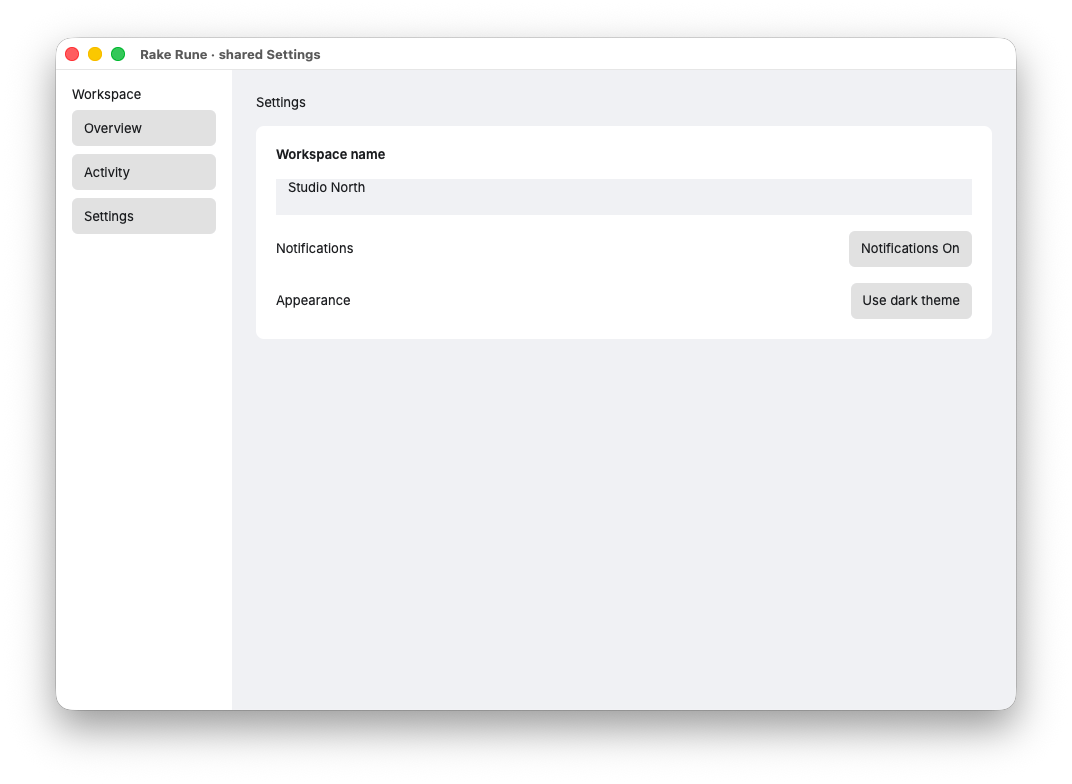
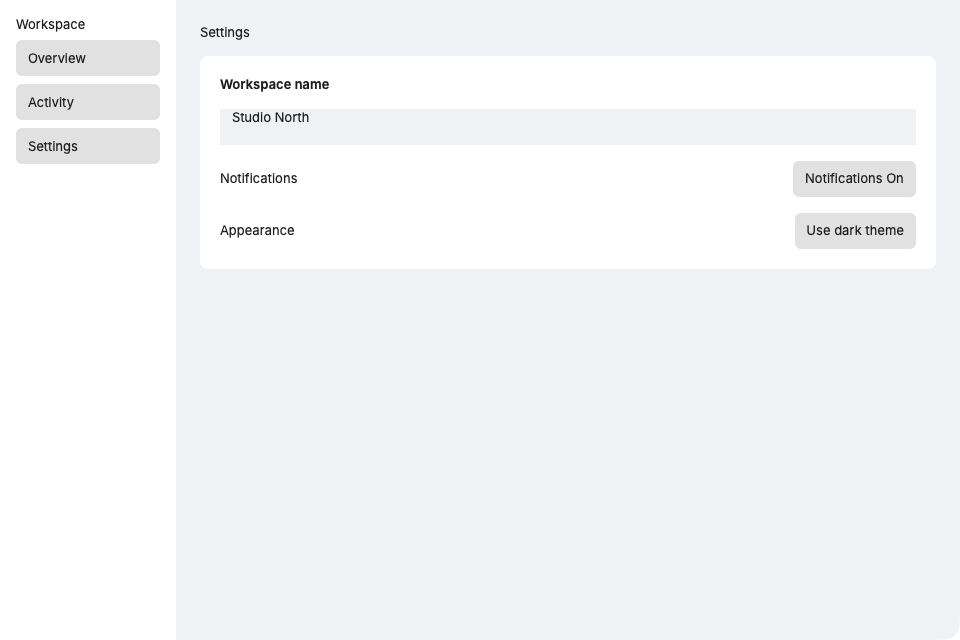
Verify shared Settings on GPUI and compare renderer captures

Changed region(s): [[0.0, 0.0312, 0.9688, 0.9688], [0.2188, 0.125, 0.375, 0.4062]]

diff --git a/experiments/rake-rune/gpui-baseline/src/backend.rs b/experiments/rake-rune/gpui-baseline/src/backend.rs
@@ -24,11 +24,51 @@ pub fn slot(children: Children) -> Element {
         .children(children)
         .into_any_element()
 }
-pub fn switch_semantics(element: Element, checked: bool) -> Element {
-    gpui::div()
-        .id("notifications-state")
-        .role(Role::Switch)
-        .aria_toggled(Toggled::from(checked))
-        .child(element)
-        .into_any_element()
+pub fn finish_button(
+    element: impl IntoElement + StatefulInteractiveElement + Styled,
+    checked: Option<bool>,
+) -> Element {
+    let palette = *rake::theme::current::<rake::theme::Semantic>();
+    let element = element
+        .border_1()
+        .border_color(palette.muted)
+        .hover(move |style| style.bg(palette.accent).border_color(palette.ring))
+        .focus_visible(move |style| style.bg(palette.accent).border_color(palette.ring));
+    button_state(element, checked).into_any_element()
+}
+
+fn button_state<E: StatefulInteractiveElement>(element: E, checked: Option<bool>) -> E {
+    match checked {
+        Some(checked) => element
+            .role(Role::Switch)
+            .aria_toggled(Toggled::from(checked)),
+        None => element,
+    }
+}
+
+#[cfg(test)]
+mod tests {
+    use super::*;
+
+    #[test]
+    fn switch_state_preserves_the_button_identity_without_a_wrapper() {
+        for checked in [None, Some(false), Some(true)] {
+            let button = gpui::div().id("notifications").role(Role::Button);
+            let id = gpui::Element::id(&button);
+            let button = button_state(button, checked);
+            let mut node = gpui::accesskit::Node::new(Role::Button);
+            gpui::Element::write_a11y_info(&button, &mut node);
+
+            assert_eq!(gpui::Element::id(&button), id);
+            assert_eq!(
+                gpui::Element::a11y_role(&button),
+                Some(if checked.is_some() {
+                    Role::Switch
+                } else {
+                    Role::Button
+                })
+            );
+            assert_eq!(node.toggled(), checked.map(Toggled::from));
+        }
+    }
 }

diff --git a/experiments/rake-rune/shared/components.rs b/experiments/rake-rune/shared/components.rs
@@ -1,5 +1,5 @@
 //! The same component markup is compiled by both renderer macros.
-use super::backend::{Children, Element, Handler, Signal, Theme, finish, slot, switch_semantics};
+use super::backend::{Children, Element, Handler, Signal, Theme, finish, finish_button, slot};
 use super::view;
 
 pub struct ButtonProps {
@@ -16,22 +16,29 @@ pub fn panel(theme: Theme, children: Children) -> Element {
 }
 
 pub fn button(theme: Theme, props: ButtonProps) -> Element {
+    button_with_state(theme, props, None)
+}
+
+fn button_with_state(theme: Theme, props: ButtonProps, checked: Option<bool>) -> Element {
     let _ = theme;
     let ButtonProps {
         id,
         label,
         on_click,
     } = props;
-    finish(view! {
-        <button
-            id={id}
-            aria-label={label}
-            class="flex flex-row items-center h-9 px-3 rounded-md bg-muted hover:bg-accent focus-visible:bg-accent"
-            on:click={on_click}
-        >
-            {label}
-        </button>
-    })
+    finish_button(
+        view! {
+            <button
+                id={id}
+                aria-label={label}
+                class="flex flex-row items-center h-9 px-3 rounded-md bg-muted hover:bg-accent focus-visible:bg-accent"
+                on:click={on_click}
+            >
+                {label}
+            </button>
+        },
+        checked,
+    )
 }
 
 pub fn setting_row(theme: Theme, label: &'static str, children: Children) -> Element {
@@ -46,7 +53,7 @@ pub fn setting_row(theme: Theme, label: &'static str, children: Children) -> Ele
 
 pub fn switch(theme: Theme, signal: Signal) -> Element {
     let checked = signal.checked;
-    let button = button(
+    button_with_state(
         theme,
         ButtonProps {
             id: "notifications",
@@ -57,6 +64,6 @@ pub fn switch(theme: Theme, signal: Signal) -> Element {
             },
             on_click: signal.toggle,
         },
-    );
-    switch_semantics(button, checked)
+        Some(checked),
+    )
 }

diff --git a/experiments/rake-rune/rake-rune/settings/src/main.rs b/experiments/rake-rune/rake-rune/settings/src/main.rs
@@ -14,8 +14,11 @@ mod backend {
     pub fn slot(children: Children) -> Element {
         rune::col().gap(16.).children(children)
     }
-    pub fn switch_semantics(element: Element, checked: bool) -> Element {
-        element.role("switch").checked(checked)
+    pub fn finish_button(element: Element, checked: Option<bool>) -> Element {
+        match checked {
+            Some(checked) => element.role("switch").checked(checked),
+            None => element,
+        }
     }
 }
 #[path = "../../../shared/components.rs"]

diff --git a/experiments/rake-rune/README.md b/experiments/rake-rune/README.md
@@ -71,9 +71,10 @@ The explicit differences are confined to each app's `backend` shim:
 - Children are owned vectors. A tiny `slot` helper supplies a stack on each
   renderer: direct expression children in a GPUI markup loop require authored
   keyed wrappers, even when the children already carry their own identities.
-- Rune adds checked switch semantics to the button itself. GPUI's erased element
-  cannot be restyled, so this prototype adds a switch-state accessibility wrapper.
-  A production component adapter should apply semantics before type erasure.
+- Both backends apply switch role and checked state to the actual button before
+  type erasure, through `finish_button`; GPUI no longer needs an accessibility
+  wrapper. GPUI's default muted and accent colors are identical, so its adapter
+  also adds a theme-ring border on hover and keyboard focus for a visible cue.
 
 **Verdict:** separate `rake-gpui::view!` / `rake-rune::view!` renderer crates over a
 shared syntax crate are viable; one shared component source compiles today.
@@ -84,7 +85,29 @@ incompatible root patch sets. Published Rake crates remain Rune-independent;
 this experiment changes none of them. This proves a renderer seam, not parity
 for Rake routing, entities, lifecycle, arbitrary utilities or component derives.
 
-![Shared components on Rune](artifacts/rake-rune-settings.png)
+The shared GPUI Settings screen has been visually checked in light and dark
+themes: Panel/SettingRow layout and text, button hover and keyboard-focus cues,
+pointer and Space activation, notifications toggling, theme toggling and workspace
+input editing. The native accessibility tree exposes one checked control (reported
+as a checkbox by macOS), not a switch wrapper containing a separate button. Rune still passes its headless
+shared-control tests and renders the same shared source.
+
+The comparison below is GPUI left, Rune right, both in their default light theme
+with notifications on and `Studio North` as the input. Each image is the native
+960 × 640 client area at 1×, cropped below the 32-point title bar without resizing
+or shadows. The previous Rune capture included window chrome; it is replaced here.
+GPUI uses its neutral semantic palette (white surface and background), larger
+bold Settings heading and subtitle, and a bordered rounded Base input. Rune uses
+a cool-gray background, contrasting white card, smaller plain heading without a
+subtitle, and a flat filled input. Those theme, typography and native-control
+differences are intentional backend defaults, not pixel-parity claims. The shared
+rows, button labels and spacing are retained; the different headers shift the
+panel vertically. GPUI's hover/focus border is more pronounced than Rune's fill.
+
+![Shared Settings: GPUI left, Rune right](artifacts/shared-settings-side-by-side.png)
+
+Individual captures: [GPUI](artifacts/gpui-shared-settings.png),
+[Rune](artifacts/rake-rune-settings.png).
 
 ## What Rune needed to replace
 
